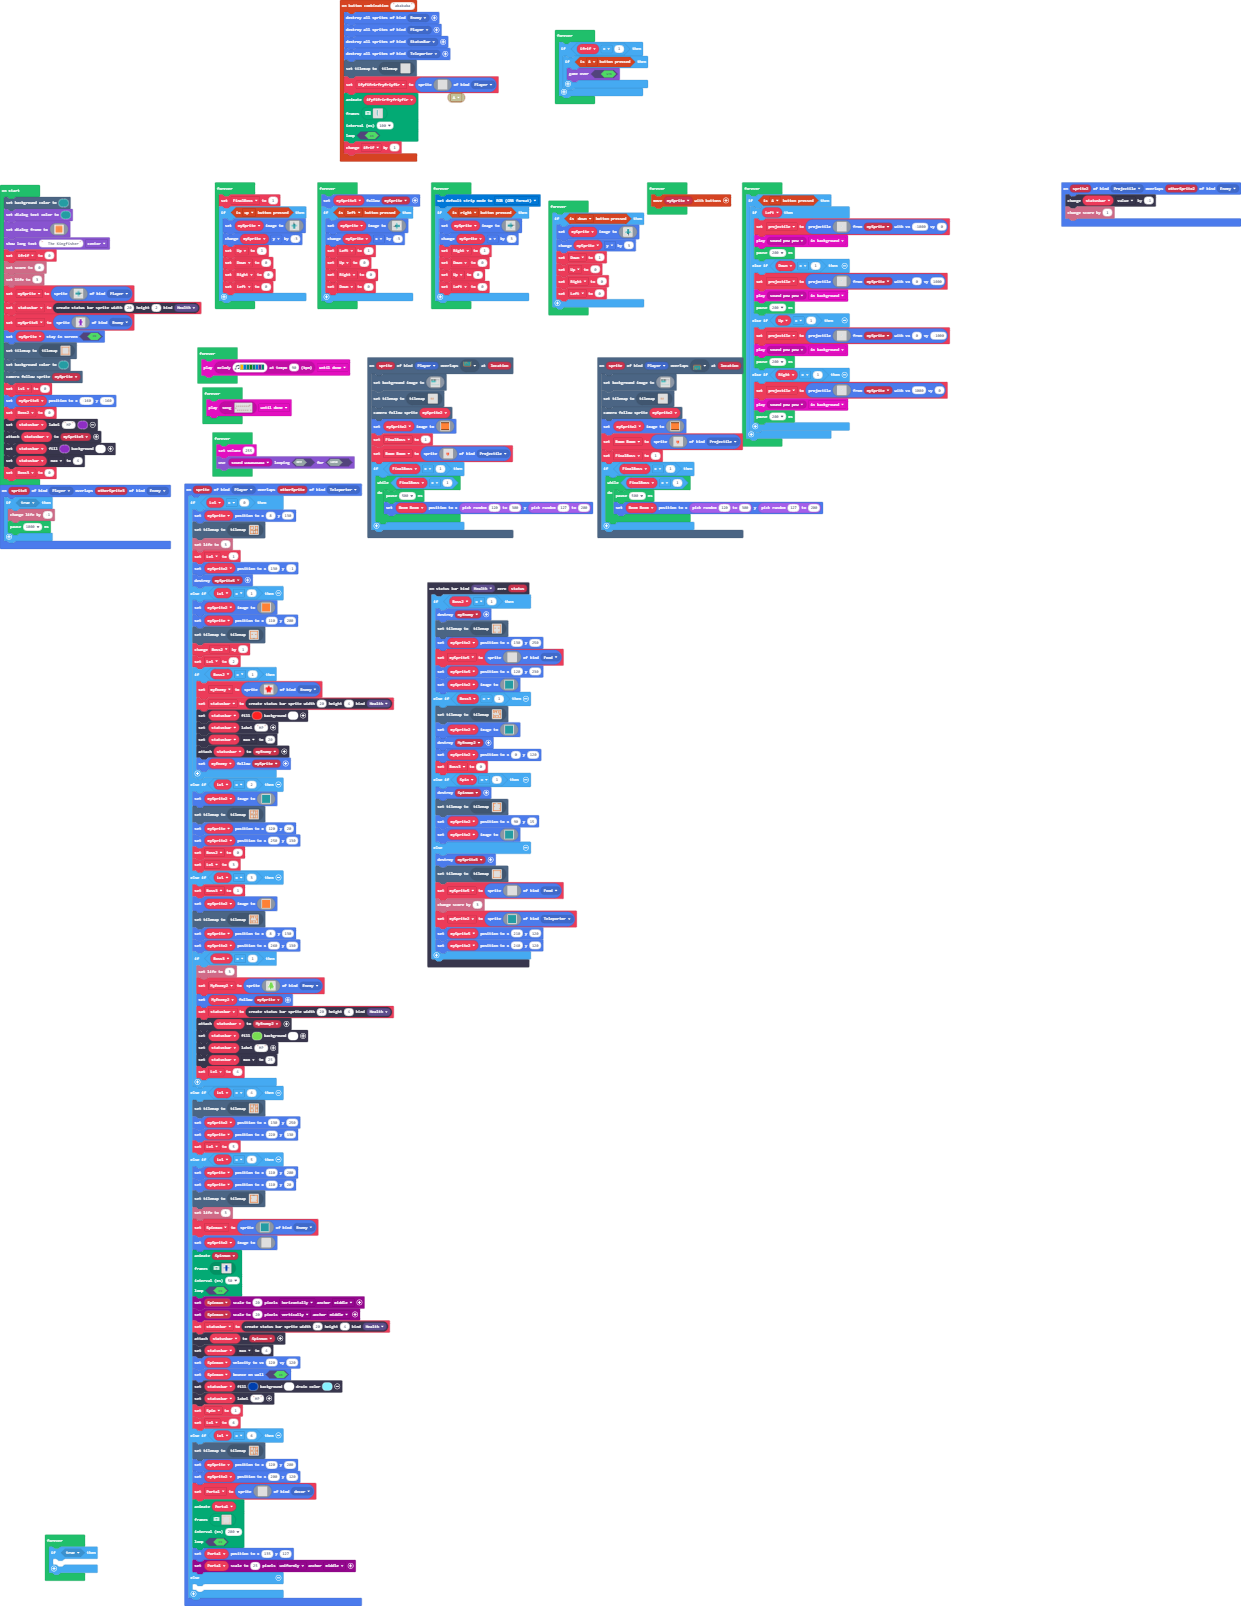
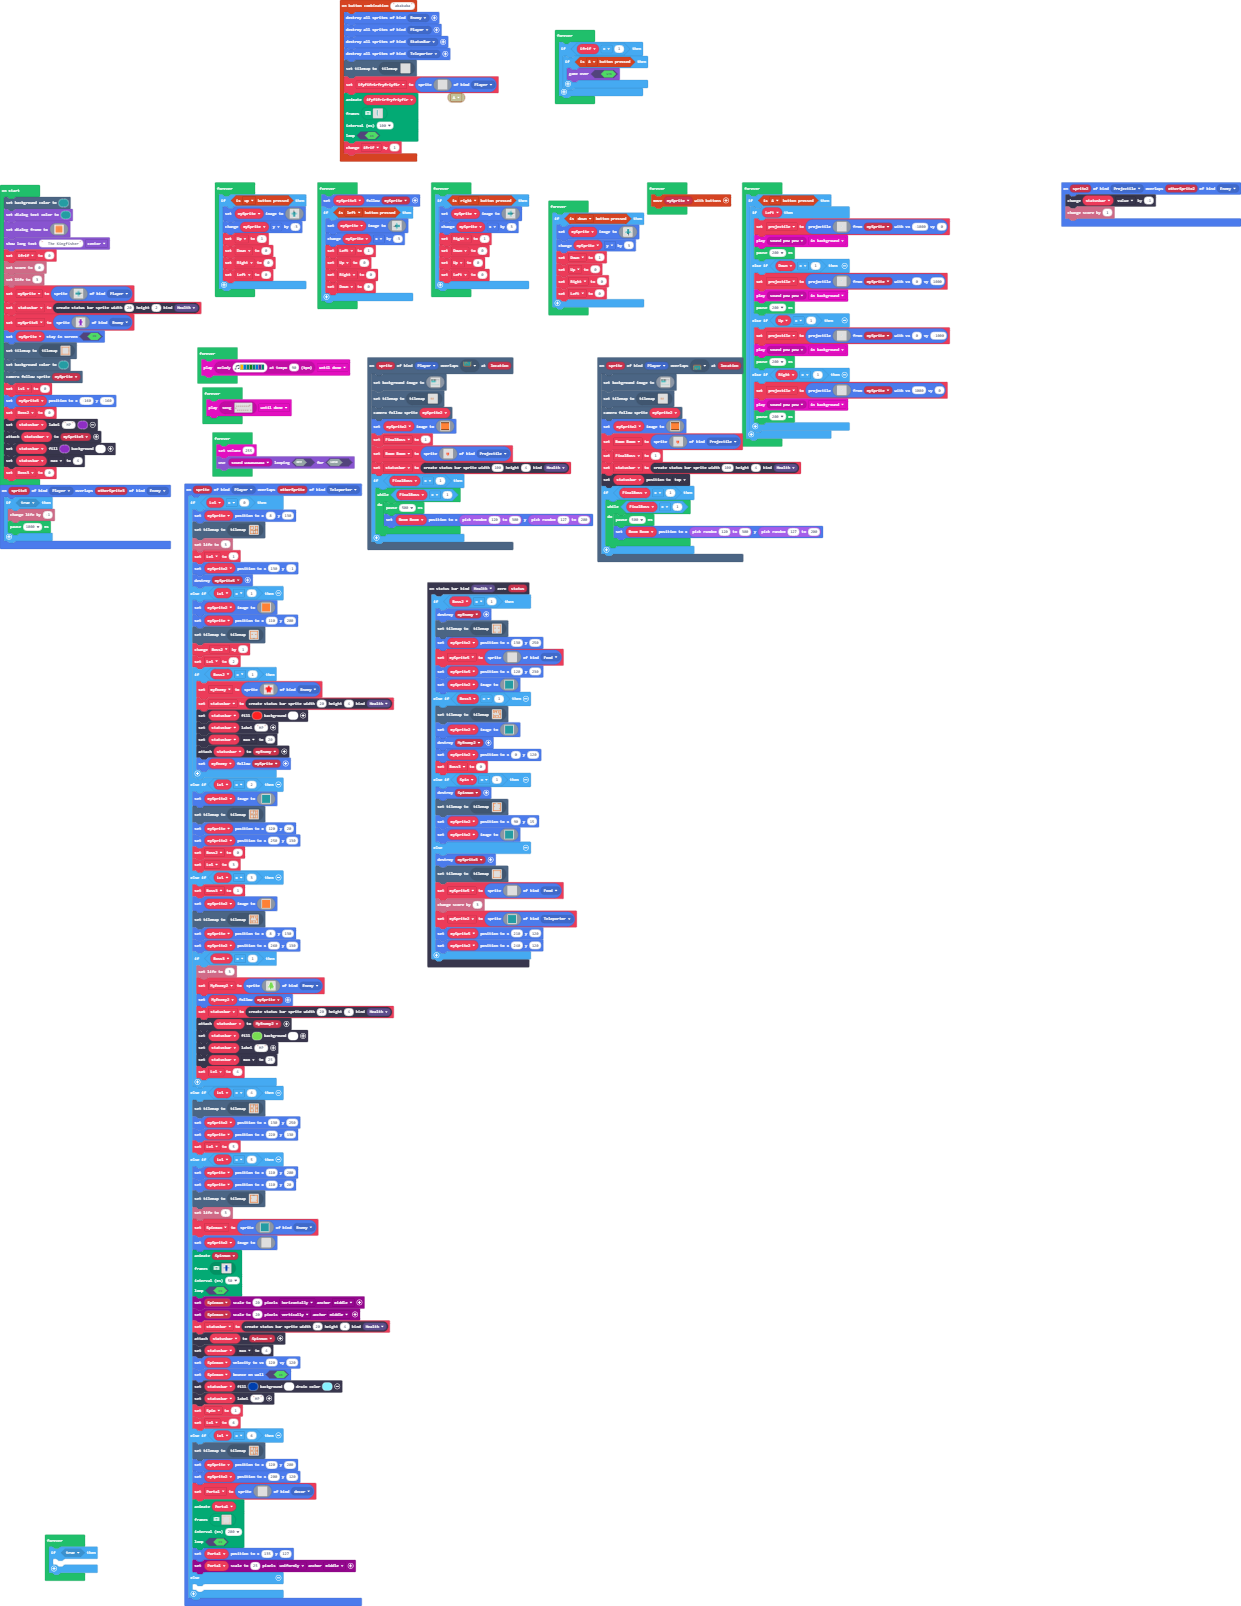
Update main.blocks, main.ts

Changed region(s): [[0.2756, 0.2802, 0.6737, 0.3736], [0.3368, 0.0934, 0.4287, 0.2179], [0.1531, 0.0934, 0.245, 0.2179]]

diff --git a/main.ts b/main.ts
@@ -171,6 +171,7 @@ scene.onOverlapTile(SpriteKind.Player, assets.tile`myTile19`, function (sprite, 
     mySprite2.setImage(assets.image`myImage7`)
     FinalBoss = 1
     Boom_Boom = sprites.create(assets.image`myImage9`, SpriteKind.Projectile)
+    statusbar = statusbars.create(100, 4, StatusBarKind.Health)
     if (FinalBoss == 1) {
         while (FinalBoss == 1) {
             pause(500)
@@ -322,6 +323,8 @@ scene.onOverlapTile(SpriteKind.Player, assets.tile`myTile20`, function (sprite, 
     mySprite2.setImage(assets.image`myImage7`)
     Boom_Boom = sprites.create(assets.image`myImage9`, SpriteKind.Projectile)
     FinalBoss = 1
+    statusbar = statusbars.create(100, 4, StatusBarKind.Health)
+    statusbar.positionDirection(CollisionDirection.Top)
     if (FinalBoss == 1) {
         while (FinalBoss == 1) {
             pause(500)
@@ -416,7 +419,6 @@ forever(function () {
     }
 })
 forever(function () {
-    FinalBoss = 1
     if (controller.up.isPressed()) {
         mySprite.setImage(assets.image`myImage`)
         mySprite.y += -3
@@ -438,7 +440,6 @@ forever(function () {
     }
 })
 forever(function () {
-    light.setMode(NeoPixelMode.RGB)
     if (controller.right.isPressed()) {
         mySprite.setImage(assets.image`s`)
         mySprite.x += 3
